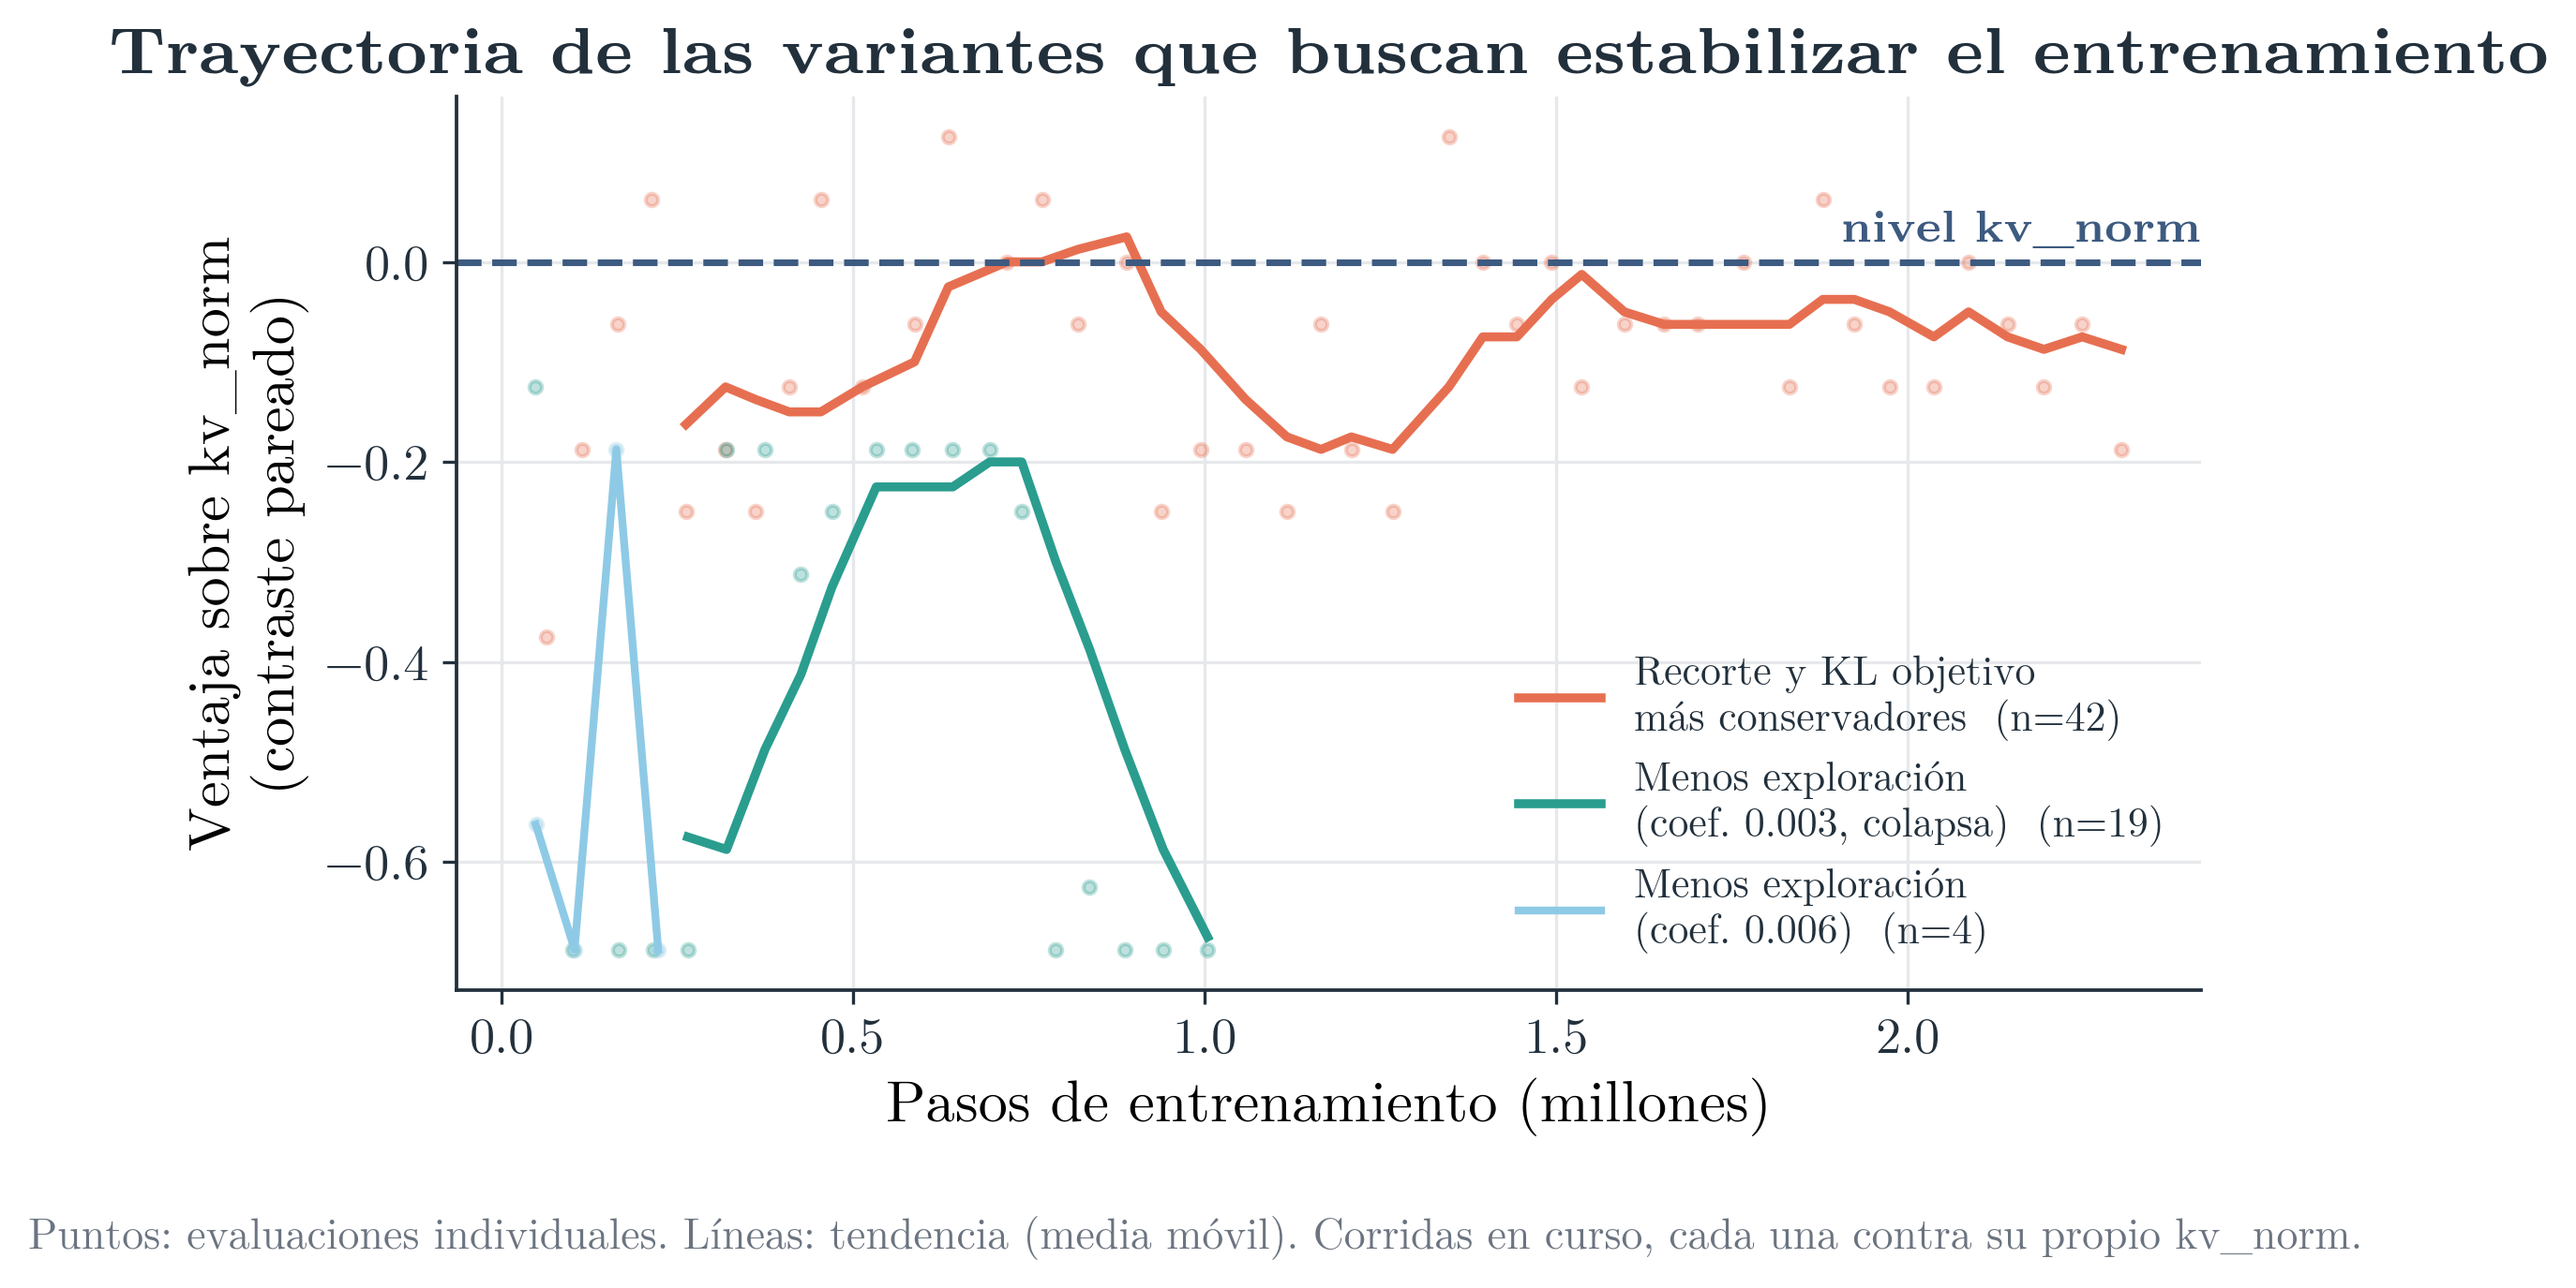
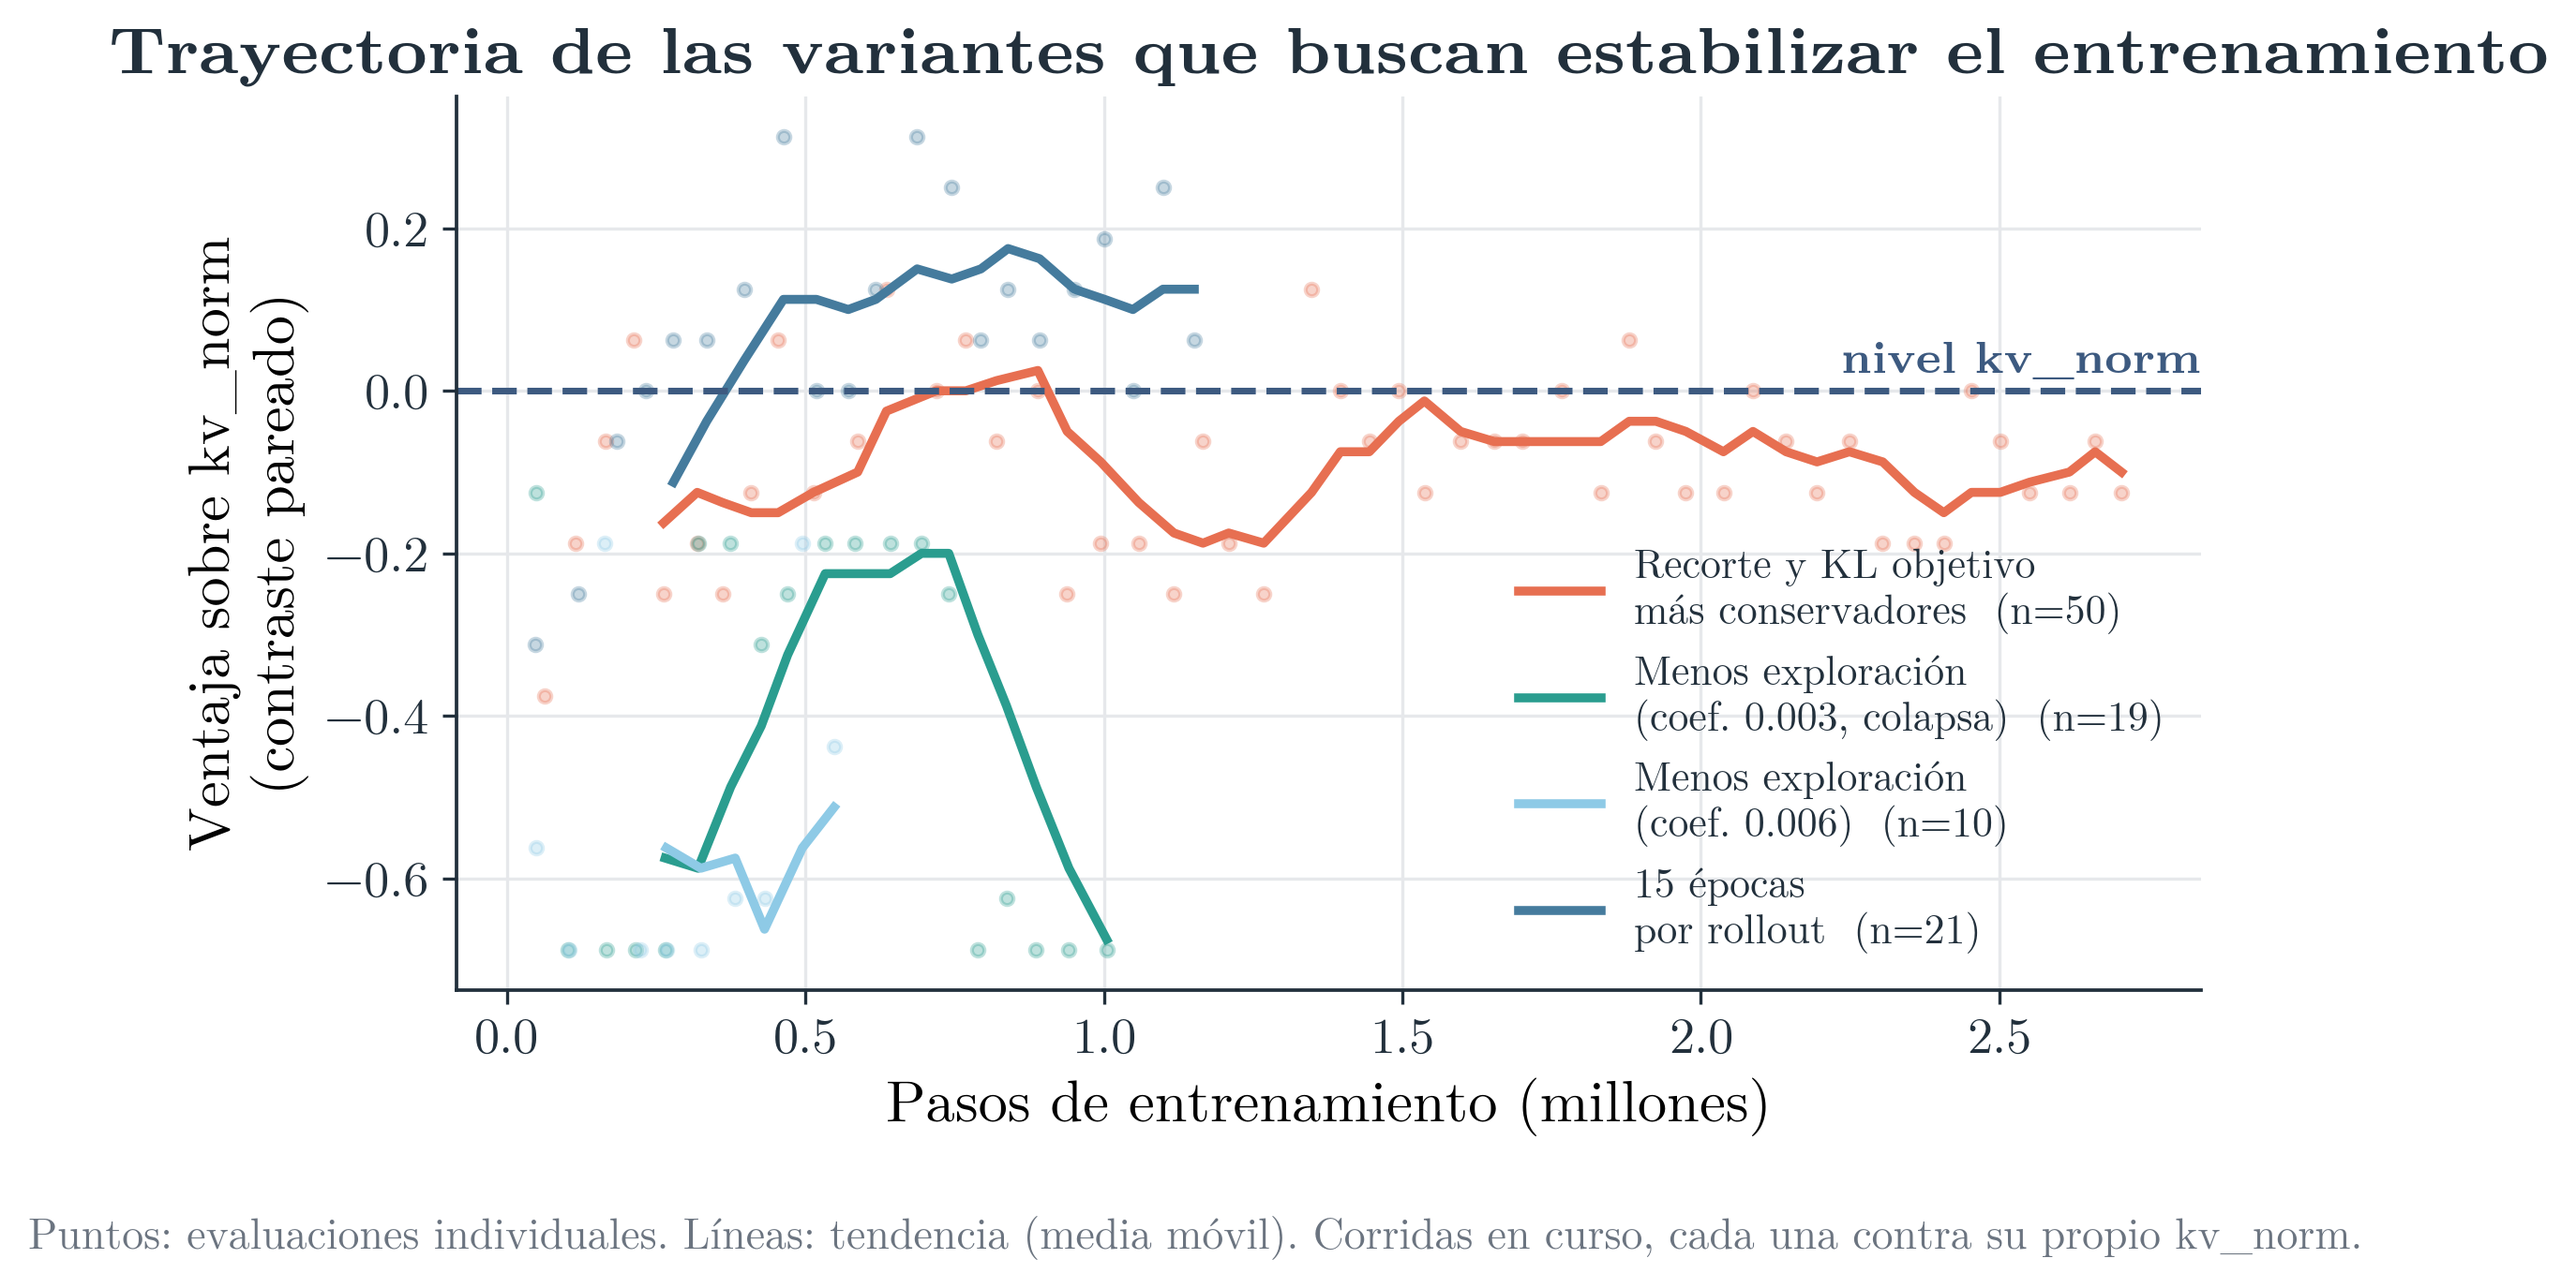
e12: close the sweep, document the conclusion, stop the VMs
- doc 13: final rows for entcoef6 (collapse to a bad local optimum with healthy
  entropy), epochs15 (67% above kv_norm but only 1.15M steps, the top candidate
  for more compute) and targetkl (a conservative update never crossed its
  anchor). New Conclusion section.
- fig13: footnote clarifies the 15-epoch run stopped early (1.15M vs 3M steps):
  it is a trend, not a final value.
- figures regenerated with epochs15 now present in fig12/13/14.
- keeper2 cron disabled and all 3 VMs stopped (TERMINATED).

diff --git a/kv-eviction-gym/scripts/figuras_e12.py b/kv-eviction-gym/scripts/figuras_e12.py
@@ -221,7 +221,8 @@ def fig13_epocas():
     ax.set_title("Épocas de optimización por rollout")
     ax.set_ylim(0, max(fracs + [0.6]) * 1.28)
     n_shown = len(labels)
-    nota = ("Todo lo demás idéntico entre las corridas."
+    nota = ("Todo lo demás idéntico. La corrida de 15 épocas se cortó "
+            "antes (1.15M pasos vs 3M): tendencia, no valor final."
             if n_shown >= 3 else
             "Todo lo demás idéntico entre las corridas. "
             "La variante de 15 épocas todavía no tiene suficientes evaluaciones.")

diff --git a/docs/runs/13-e12-estabilidad.md b/docs/runs/13-e12-estabilidad.md
@@ -2,9 +2,11 @@
 
 **Branch:** `exp/e12-stability` (aislado de main para que los resultados sean
 reportables como un experimento cerrado).
-**Estado:** EN CURSO (lanzado 2026-07-06).
+**Estado:** CERRADO (lanzado 2026-07-06, VMs apagadas 2026-07-08). Ver
+conclusion al final.
 **Datos:** `kv-eviction-gym/experiments/phase4-stability/data/`
 **Plots de progreso:** `python experiments/phase4-stability/plot_progress.py`
+**Figuras informe:** `python scripts/figuras_e12.py` -> `docs/imgs/fig11..14`
 
 ## Motivacion (que dejo E11)
 
@@ -115,9 +117,9 @@ entre corridas, cada slot arranca apenas termina el anterior.
 | s_e12_seed4 | **INVALIDO / MATADO** | - | 0.00 (probe roto, n=1) | - | su "anchor degenerado" era el bug, no mala suerte de semilla |
 | s_e12_seed5 | DONE (3M) | 0.439 | 0.375 | 32/54 (59%) | VALIDO (16/16). Gap +0.064 pero media bajo el piso de 0.5 -> STOP. Tendencia PLANA (1a 0.444 -> 2a 0.433), tramo final el mas debil. Mismo patron que seed2/cont_klC: picos reales, sin convergencia sostenida. |
 | s_e12_entcoef | MATADO a 33% (veredicto concluyente) | 0.257 | 0.688 | 0/19 (0%) | **brazo G negativo, con mecanismo**: ent_coef 0.003 provoca colapso de entropia (-5.5 -> -4.53) y `truncation_rate` 0 -> **1.0**. La politica se vuelve determinista y converge a una evicción que impide al modelo emitir EOS: los episodios nunca terminan, la correccion es 0 y PPO se queda sin gradiente. Mismo modo de falla que el bug del chat template, por otro camino. Contraste en el mismo tramo: targetkl (ent_coef 0.01) tiene entropia -5.56 y truncation 0.06. |
-| s_e12_entcoef6 | en curso (kv-none-v2) | - | - | - | **brazo G'**: ent_coef 0.006, punto intermedio entre 0.003 (colapsa) y 0.01 (base). Busca si existe una ventana donde menos exploracion ayude sin matar el EOS. |
-| s_e12_epochs15 | en curso (simcot-t4) | - | - | - | **brazo H**: n_epochs 10->15 aislado. epochs4 mostro que 10>>4; queda saber si es monotono o si 10 ya es el punto dulce. |
-| s_e12_targetkl | RELANZADO limpio, en curso | - | 0.688 | - | **brazo F**: clip_range 0.2->0.1 + target_kl=0.03 (resto identico a klC). Ataca el patron "toca el optimo y se cae": con n_epochs=10 confirmado como driver, un update mas conservador deberia evitar que 10 epocas de gradiente se pasen de largo. Requirio agregar `target_kl` al constructor de PPO en train.py (no estaba threaded). Primer intento corrio con el probe roto y fue descartado. |
+| s_e12_entcoef6 | CORTADO 0.55M (VM apagada) | 0.15 | 0.688 | 0/10 (0%) | **brazo G' negativo, mecanismo DISTINTO al de entcoef**: con ent_coef 0.006 la entropia se mantiene sana (-5.3, no colapsa como el 0.003 que caia a -4.53), pero la politica igual converge a un optimo local malo: evicta ~80% de tokens recien generados, trunca 100% y correccion 0. Dos caminos distintos (colapso de entropia vs optimo local con exploracion sana), mismo destino. Menos exploracion no ayuda. |
+| s_e12_epochs15 | CORTADO 1.15M (VM apagada, incompleto) | 0.63 | 0.562 | 14/21 (67% estricto, 86% >=) | **brazo H, el señal mas fuerte del sweep pero el menos maduro**: n_epochs 15, 1a mitad 0.556 -> 2a mitad 0.705, subiendo. Completa la historia monotona con epochs4/klC: 4 ep 4% arriba, 10 ep 48%, 15 ep 67%. PERO corrio solo 1.15M pasos (vs 3M de los demas): es una tendencia temprana MUY prometedora, no un valor final comparable. **El candidato numero 1 para mas computo** si se retoma. |
+| s_e12_targetkl | CORTADO 2.70M (VM apagada, ~90%) | 0.59 | 0.688 | 6/50 (12% estricto, 26% >=) | **brazo F negativo**: clip_range 0.2->0.1 + target_kl=0.03. El update mas conservador NO logro cruzar su ancla (la mas alta del sweep, 0.688): tendencia plana (1a 0.583 -> 2a 0.605), oscila por debajo. Requirio agregar `target_kl` al constructor de PPO en train.py (no estaba threaded; hubiera sido un no-op silencioso). Primer intento corrio con el probe roto y fue descartado; este es el relanzamiento limpio. |
 
 ### Bug del probe en kvp-ab (encontrado 2026-07-08, invalida 4 runs)
 
@@ -155,3 +157,61 @@ final sobre la historia completa es paridad (+0.02) o negativo, no una
 convergencia clara y sostenida por encima de kv_norm. La hipotesis "mas pasos
 estabiliza" se confirma parcialmente: mejora la magnitud de los picos, no la
 consistencia.
+
+## Conclusion del barrido (2026-07-08, VMs apagadas)
+
+Se corrieron 13 brazos; 4 quedaron invalidados por el bug del probe en kvp-ab
+(seed2, seed3, seed4, cont_klC_seed1), 9 son validos. Las figuras del informe
+(`docs/imgs/fig11..14`) reflejan solo los validos.
+
+**Que se aprendio, ordenado por solidez de la evidencia:**
+
+1. **`n_epochs` es el driver causal, y el efecto parece monotono.** Con todo lo
+   demas fijo: 4 epocas cruzan kv_norm en 4% de las evaluaciones, 10 en 48%, 15
+   en 67% (fig13). Es el resultado mas limpio del barrido. Caveat honesto: la
+   corrida de 15 epocas se corto a 1.15M pasos (las otras llegaron a 3M), asi
+   que ese 67% es una TENDENCIA temprana, no un valor final comparable. Aun asi,
+   la direccion (mas epocas de optimizacion por rollout -> mas acople con la
+   correccion) es consistente en tres puntos.
+
+2. **Ninguna configuracion, sola, cruza kv_norm de forma estable y sostenida.**
+   El positivo de klC/cont_klC es real pero fragil: hay picos altos y frecuentes
+   (toca 1.0), pero sobre la historia completa el agregado es paridad (+0.02 a
+   10M). Extender pasos mejora la ALTURA de los picos, no su CONSISTENCIA. Este
+   es el mensaje central que ya trae el informe, y E12 lo refuerza con mas datos
+   en vez de contradecirlo.
+
+3. **Las palancas de estabilizacion de PPO que probamos no ayudaron:**
+   - LR decay lineal (seeds 0 y 1): por debajo de kv_norm, no convirtio la
+     oscilacion en convergencia.
+   - Update mas conservador (clip_range 0.1 + target_kl 0.03): tendencia plana,
+     nunca cruzo su ancla.
+   - Recompensa densa mas fuerte (kl_weight 0.05->0.15): nunca supero la
+     heuristica; mas peso en el proxy KL no arregla su desacople con la
+     correccion final.
+   - Menos exploracion (ent_coef 0.003 y 0.006): ambas colapsan a correccion 0,
+     por dos mecanismos distintos (colapso de entropia el 0.003; optimo local con
+     entropia sana el 0.006). Confirma que la exploracion que ya tenia la config
+     base (0.01) no era el cuello de botella.
+
+4. **Semillas:** con los anchors validos (seed5 en kv-none-v2), el positivo no se
+   reproduce como cruce sostenido: gap +0.064 pero tendencia plana y media por
+   debajo del piso de 0.5. Sigue siendo "un positivo de una sola semilla que las
+   demas no reproducen como cruce estable", igual que antes de E12.
+
+**Que quedaria para mas computo (trabajo futuro):**
+- Retomar **n_epochs=15 hasta 3M+** y con >=2 semillas: es el unico brazo con
+  tendencia claramente ascendente y sin cerrar. Candidato numero 1.
+- La **evaluacion pareada ancha** (n~96-128 ejemplos de passkey compartidos)
+  sobre el checkpoint final de klC, para separar inestabilidad real de la
+  politica del ruido del probe de 16 ejemplos. Propuesta, nunca ejecutada.
+- GAE/gamma<1 real, que requiere cirugia en el buffer de episodios (descartado
+  para la ventana de 48h, ver arriba).
+
+**Nota metodologica que E12 dejo clara:** con probe_n=16, mucha de la
+"oscilacion" que veniamos leyendo como inestabilidad de la politica es ruido de
+medicion (1 ejemplo = 0.0625). El analisis se sostiene sobre el contraste
+pareado learned vs kv_norm dentro de cada corrida y sobre agregados de decenas
+de evaluaciones, nunca sobre un probe suelto. El bug del probe en kvp-ab (que
+redujo n a 1-3 sin avisar) fue el recordatorio mas caro de esto; ahora `probe.py`
+aborta si sobrevive menos del 50% de los ejemplos.
